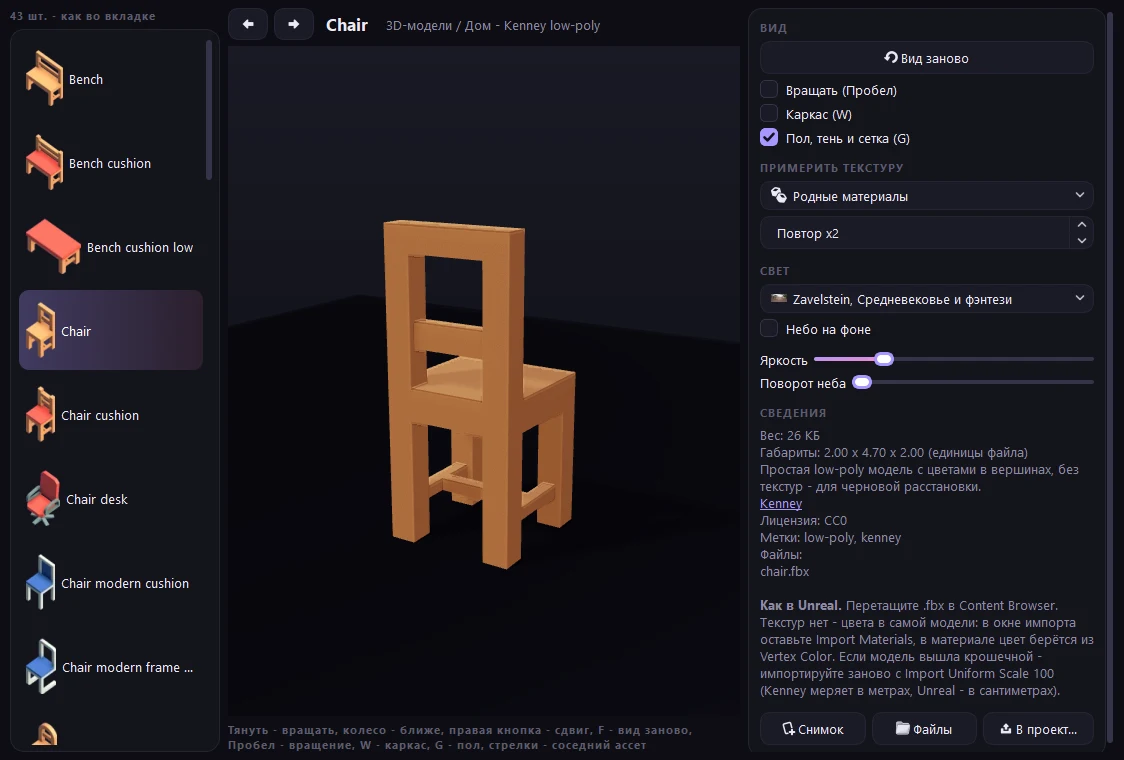
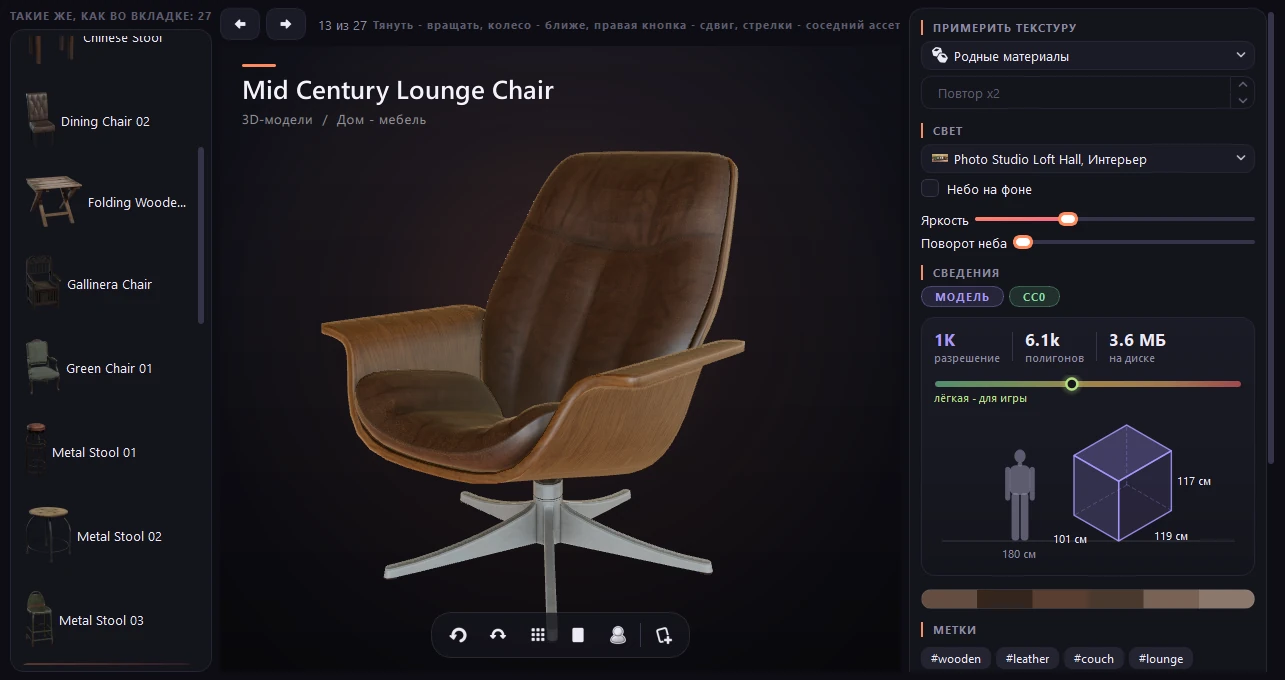
Новые снимки README и скрипт _tools/docs_screenshots.py: PBR-декор, кресло Mid Century, камень со мхом, гостиная, подборка

diff --git a/_tools/docs_screenshots.py b/_tools/docs_screenshots.py
@@ -1,0 +1,245 @@
+#!/usr/bin/env python3
+"""Снимки окна для README: py -3.14 _tools/docs_screenshots.py [снимок ...] [--out папка].
+
+Открывает настоящее окно (на экране, иначе нет шрифтов), выставляет вкладки, модели и ракурсы и сохраняет
+снимки в _docs/screenshots (webp). settings.json окно по ходу меняет - копия возвращается в конце.
+Снимки: hero, unreal, viewer-model, viewer-texture, scene, room; без имён - все."""
+
+import os
+import shutil
+import sys
+
+HERE = os.path.dirname(os.path.abspath(__file__))
+sys.path.insert(0, HERE)
+
+from PIL import Image  # noqa: E402
+from PyQt6.QtCore import QObject, QTimer  # noqa: E402
+from PyQt6.QtGui import QVector3D  # noqa: E402
+from PyQt6.QtWidgets import QAbstractItemView, QApplication, QSplitter  # noqa: E402
+
+from library.common import LIB  # noqa: E402
+
+CFG = os.path.join(HERE, "settings.json")
+OUT = os.path.join(LIB, "_docs", "screenshots")
+
+# что показывать: подобрано по превью - самые выразительные из скачанного
+HERO = ("02 Наклейки/Сказочные существа/Фиолетовая ночь", "baby-dragon")
+UNREAL = dict(kind="model", style="real", theme="::sec:Дом|Декор", pick="Bronze Whale Statue")
+MODEL = dict(kind="model", style="real", theme="::sec:Дом|Стулья и кресла", pick="Mid Century Lounge Chair")
+MODEL_VIEW = dict(angle=(-14, 34), env="Photo Studio Loft Hall", exposure=135)
+TEXTURE = dict(kind="tex", style="all", theme=None, pick="Coast Sand Rocks 02")
+TEXTURE_VIEW = dict(angle=(-18, 30), env="Photo Studio Loft Hall", exposure=120)
+SCENE = "уютная гостиная в винтажном стиле"
+# комната - отобранные вещи (подборка по описанию может взять ящик для рассады или раму без стены)
+ROOM = (
+    "Sofa 03",
+    "Mid Century Lounge Chair",
+    "Rockingchair 01",
+    "Coffee Table 01",
+    "Vintage Cabinet 01",
+    "Wooden Display Shelves",
+    "Classic Console 01",
+    "Ornate Mirror 01",
+    "Potted Plant 02",
+    "Potted Plant 04",
+    "Chandelier 01",
+)
+
+
+def to_webp(pm, name):
+    tmp = os.path.join(OUT, name + ".tmp.png")
+    pm.save(tmp, "PNG")
+    with Image.open(tmp) as im:
+        im.convert("RGB").save(os.path.join(OUT, name + ".webp"), "WEBP", quality=90, method=6)
+    os.remove(tmp)
+    print("снимок:", name)
+
+
+class Shots:
+    def __init__(self, names):
+        from ui import main_window as M
+        from ui import theme
+
+        cfg = M.load_cfg()
+        theme.apply(cfg.get("theme", "dark"), cfg.get("accent", "lavender"))
+        QApplication.instance().setStyleSheet(theme.stylesheet())
+        self.w = M.Window()
+        self.w.show()
+        self.steps = []
+        for n in names:
+            getattr(self, "shot_" + n.replace("-", "_"))()
+
+    # --------------------------------------------------------- шаги
+    def add(self, delay, fn):
+        self.steps.append((delay, fn))
+
+    def run(self):
+        if not self.steps:
+            finish(0)
+            return
+        delay, fn = self.steps.pop(0)
+
+        def go():
+            try:
+                fn()
+            except Exception:
+                import traceback
+
+                traceback.print_exc()
+                finish(1)
+                return
+            self.run()
+
+        QTimer.singleShot(delay, go)
+
+    # --------------------------------------------------------- помощники
+    def ue_open(self, kind, style, theme, pick):
+        """Вкладка Unreal: вид, стиль, раздел дерева и выбранная плитка."""
+        from ui.unreal_tiles import ASSET
+
+        w = self.w
+        tab = w.unreal
+        w.tabs.setCurrentWidget(tab)
+        nav = tab.nav
+        nav.kind, nav.theme = kind, theme
+        nav.style.cur = style
+        nav.set_items(tab.items, tab.favs())
+        tab.show_assets()
+        for i in range(tab.list.count()):
+            if tab.list.item(i).data(ASSET).get("name") == pick:
+                tab.list.setCurrentRow(i)
+                tab.list.scrollToItem(tab.list.item(i), QAbstractItemView.ScrollHint.PositionAtCenter)
+                return tab.list.item(i).data(ASSET)
+        raise RuntimeError(f"нет «{pick}» в {theme}")
+
+    def ue_ready(self):
+        tab = self.w.unreal
+        self.w.tabs.setCurrentWidget(tab)
+        if not tab.loaded:
+            tab.refresh()
+
+    def view(self, spec, look, name, size=(1100, 680)):
+        def open3d():
+            tab = self.w.unreal
+            tab.view3d(self.ue_open(**spec))
+            tab.viewer.resize(*size)
+
+        def light():
+            v = self.w.unreal.viewer
+            for i in range(v.env.count()):
+                if v.env.itemText(i).startswith(look["env"]):
+                    v.env.setCurrentIndex(i)
+                    break
+            v.expo.setValue(look["exposure"])
+
+        def angle():
+            v = self.w.unreal.viewer
+            pitch, yaw = look["angle"]
+            v.root.findChild(QObject, "orbit").setProperty("eulerRotation", QVector3D(pitch, yaw, 0))
+
+        self.add(300, self.ue_ready)
+        self.add(4000, open3d)
+        self.add(5000, light)
+        self.add(2500, angle)
+        self.add(1500, lambda: to_webp(self.w.unreal.viewer.grab(), name))
+        self.add(200, lambda: self.w.unreal.viewer.hide())
+
+    # --------------------------------------------------------- снимки
+    def shot_hero(self):
+        def setup():
+            w = self.w
+            w.resize(1536, 941)
+            w.tabs.setCurrentWidget(w.lib)
+            w.lib.split.setSizes([290, 880, 340])  # дереву - место под имена разделов
+            w.lib.show_section(os.path.join(LIB, *HERO[0].split("/")))
+
+        def pick():
+            lst = self.w.lib.list
+            for i in range(lst.count()):
+                if lst.item(i).text() == HERO[1]:
+                    lst.setCurrentRow(i)
+
+        self.add(500, setup)
+        self.add(2500, pick)
+        self.add(2500, lambda: to_webp(self.w.grab(), "hero"))
+
+    def shot_unreal(self):
+        def wide():  # после того как окно сменило размер, иначе раскладка вернёт старые доли
+            tab = self.w.unreal
+            split = next(sp for sp in tab.findChildren(QSplitter) if sp.widget(0) is tab.nav)
+            split.setSizes([290, 880, 340])
+
+        self.add(300, self.ue_ready)
+        self.add(4000, lambda: (self.w.resize(1536, 941), self.ue_open(**UNREAL)))
+        self.add(1500, wide)
+        self.add(6000, lambda: to_webp(self.w.grab(), "unreal"))
+
+    def shot_viewer_model(self):
+        self.view(MODEL, MODEL_VIEW, "viewer-model")
+
+    def shot_viewer_texture(self):
+        self.view(TEXTURE, TEXTURE_VIEW, "viewer-texture")
+
+    def shot_scene(self):
+        def setup():
+            tab = self.w.unreal
+            tab.scene()
+            d = tab.scene_dlg
+            d.resize(860, 760)
+            d.q.setText(SCENE)
+            d.build()
+
+        self.add(300, self.ue_ready)
+        self.add(4000, setup)
+        self.add(9000, lambda: to_webp(self.w.unreal.scene_dlg.grab(), "scene"))
+
+    def shot_room(self):
+        def setup():
+            tab = self.w.unreal
+            by = {a.get("name"): a for a in tab.items if a.get("kind") == "model"}
+            tab.room([by[n] for n in ROOM if n in by], "Гостиная")
+            d = tab.room_dlg
+            d.resize(1100, 700)
+            for cb, want in ((d.floor, "Wooden Floor"), (d.light, "Photo Studio")):
+                i = next((i for i in range(cb.count()) if cb.itemText(i).startswith(want)), -1)
+                if i >= 0:
+                    cb.setCurrentIndex(i)
+
+        def closer():  # комната крупнее и чуть сверху - мебель видно, пустого пола меньше
+            root = self.w.unreal.room_dlg.root
+            cam = root.findChild(QObject, "cam")
+            cam.setProperty("position", QVector3D(0, 0, cam.property("position").z() * 0.74))
+            root.findChild(QObject, "orbit").setProperty("eulerRotation", QVector3D(-30, 18, 0))
+
+        self.add(300, self.ue_ready)
+        self.add(4000, setup)
+        self.add(9000, closer)
+        self.add(2000, lambda: to_webp(self.w.unreal.room_dlg.grab(), "room"))
+
+
+def finish(code):
+    if os.path.exists(CFG + ".shotbak"):
+        shutil.copy(CFG + ".shotbak", CFG)
+        os.remove(CFG + ".shotbak")
+    os._exit(code)
+
+
+def main():
+    global OUT
+    args = sys.argv[1:]
+    if "--out" in args:
+        i = args.index("--out")
+        OUT = os.path.abspath(args[i + 1])
+        del args[i : i + 2]
+    os.makedirs(OUT, exist_ok=True)
+    names = args or ["hero", "unreal", "viewer-model", "viewer-texture", "scene", "room"]
+    shutil.copy(CFG, CFG + ".shotbak")
+    app = QApplication(sys.argv[:1])
+    s = Shots(names)
+    QTimer.singleShot(1500, s.run)
+    QTimer.singleShot(300000, lambda: finish(2))
+    app.exec()
+
+
+if __name__ == "__main__":
+    main()

diff --git a/README.en.md b/README.en.md
@@ -23,7 +23,7 @@ an "Unreal" tab: textures, HDRIs, models and lights for Unreal Engine with a 3D 
 ![mcp](https://img.shields.io/badge/MCP-AI%20assistants-d97757)
 ![license](https://img.shields.io/badge/code-MIT-green)
 
-<img src="_docs/screenshots/hero.webp" alt="Library window: quick access cards and a section tree with colored counts on the left, fairy-tale sticker tiles with a pink section stripe in the middle, a large baby dragon with its colors and a tag suggestion on the right" width="880">
+<img src="_docs/screenshots/hero.webp" alt="Library window: quick access cards with live counts and a section tree with numbers and share bars on the left, fairy-tale sticker tiles in the middle, a large baby dragon with its colors and a tag suggestion on the right" width="880">
 
 <sub>One folder, PyQt6 window, Pillow and numpy core, semantic search on onnxruntime</sub>
 
@@ -116,7 +116,7 @@ suggested, and everything is filed into the right section and palette.
 ## Unreal Engine assets
 
 <div align="center">
-<img src="_docs/screenshots/unreal.webp" alt="Unreal tab: kind cards and home sections on the left, 43 chairs and armchairs as cards in the middle, the selected chair spinning in a live 3D view on the right" width="820">
+<img src="_docs/screenshots/unreal.webp" alt="Unreal tab: kind cards, a style switch set to PBR and the Home tree on the left, brass vases, goblets and bronze statues from the Decor section in the middle, the bronze whale with polycount and size next to a 180 cm person on the right" width="820">
 <br><sub>The "Unreal" tab: home models by purpose, live 3D on the right, drag a tile into the Content Browser</sub>
 </div>
 
@@ -128,13 +128,13 @@ polycount and color, re-download in 1K/2K/4K and a one-click import script for U
 texture settings and an `M_<name>` material).
 
 <div align="center">
-<img src="_docs/screenshots/viewer-texture.webp" alt="3D viewer: a mossy brick texture on a lit sphere, each map viewable separately" width="49%">
-<img src="_docs/screenshots/viewer-model.webp" alt="3D viewer: a wooden chair on a floor with a shadow" width="49%">
+<img src="_docs/screenshots/viewer-texture.webp" alt="3D viewer: a mossy rock texture on a sphere under studio light, each map viewable separately" width="49%">
+<img src="_docs/screenshots/viewer-model.webp" alt="3D viewer: a mid-century leather lounge chair under studio light, with polycount and real size" width="49%">
 <br><sub>3D viewer on Qt Quick 3D: texture on a sphere with every map separately; a model on a floor with a shadow</sub>
 </div>
 
 <div align="center">
-<img src="_docs/screenshots/room.webp" alt="Room draft: carpet floor, concrete walls, a bed, a bench, a table, candelabras and chairs at real scale" width="760">
+<img src="_docs/screenshots/room.webp" alt="Room draft: wooden floor, concrete walls, a sofa, armchairs, a rocking chair, tables, a cabinet, a mirror and plants at real scale, a chandelier under the ceiling" width="760">
 <br><sub>Room draft from a collection: real-scale furniture, floor and walls from downloaded textures, HDRI light</sub>
 </div>
 
@@ -158,7 +158,7 @@ pack** bundles the files, the import script, CREDITS.md and manifest.json. AI as
 `ue_plan_room`, `ue_blender` (returns a render), `ue_import`, `ue_pack` and more.
 
 <div align="center">
-<img src="_docs/screenshots/scene.webp" alt="Room from a description: nine items by section, floor, walls and sky" width="49%">
+<img src="_docs/screenshots/scene.webp" alt="Room from a description: a cozy vintage living room, items by section with previews and an alternative for each" width="49%">
 <img src="_docs/screenshots/blender.webp" alt="Blender render of the same room" width="49%">
 </div>
 

diff --git a/CHANGELOG.md b/CHANGELOG.md
@@ -6,6 +6,11 @@
 ## [Unreleased]
 
 ### Разделы и левые панели
+- Снимки README обновлены, все - одной командой `py -3.14 _tools/docs_screenshots.py`: PBR-декор и бронзовый
+  кит во вкладке Unreal, кресло Mid Century и камень со мхом в окне 3D, винтажная гостиная, подборка по описанию
+  (`scene.webp` в README был, а файла не было).
+- 3D-комната окна: люстры и потолочный свет висят под потолком, а не лежат на полу (правило общее с Blender -
+  `room_layout.hangs`). Подписи разделов в «Подборке по описанию» - читаемые. Левая панель «Unreal» - не уже 250 px.
 - Новый раздел `08 Интерфейс`: наборы Kenney UI Pack, UI Pack Adventure, UI Pack Sci-fi (932 шт.) из
   «Рамок и орнаментов» - это кнопки, панели и ползунки, а не рамки. Запланированные «Градиенты» - теперь `14`.
 - Схемы C++ (`double`, переполнение `int`) - из «Баннеров» в «Схемы»; обложки и схемы с английскими именами
